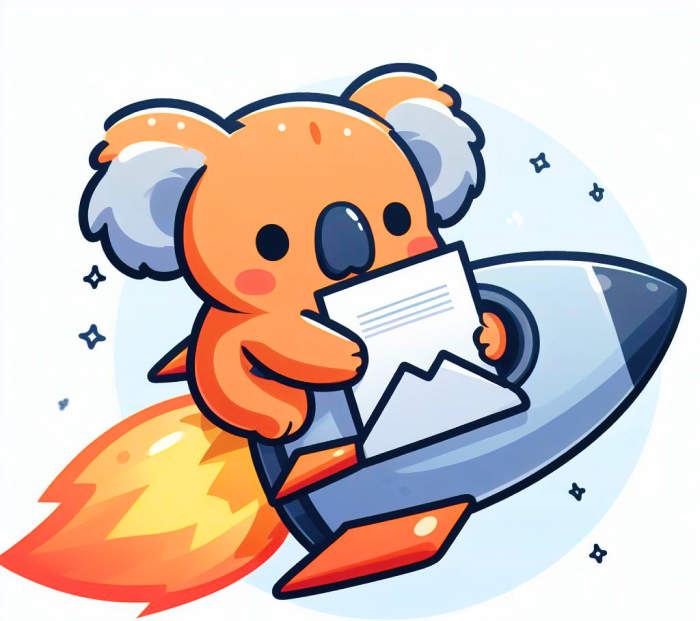
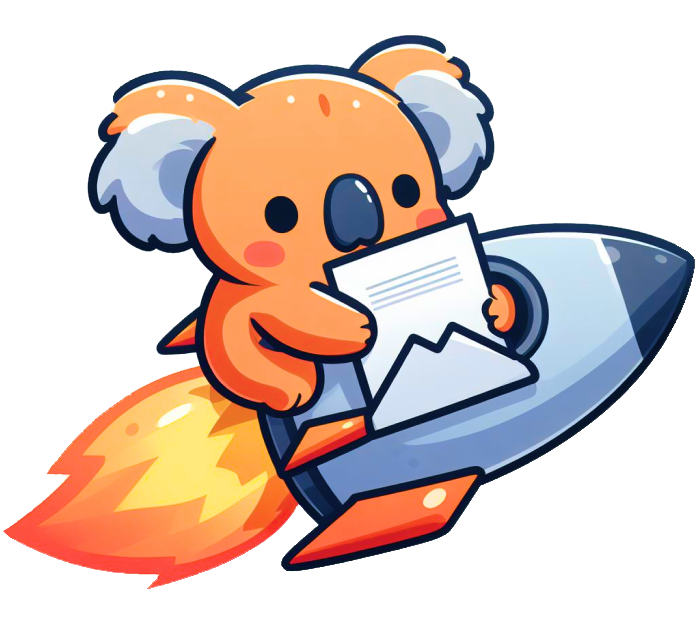
Add autofilling progress animation

diff --git a/packages/ed-resource/src/webapp/components/organisms/UploadResource/UploadResource.tsx b/packages/ed-resource/src/webapp/components/organisms/UploadResource/UploadResource.tsx
@@ -16,6 +16,7 @@ import type { default as React, FC } from 'react'
 import { useCallback, useEffect, useRef, useState } from 'react'
 import { ReactComponent as UploadFileIcon } from '../../../assets/icons/upload-file.svg'
 import { ReactComponent as UploadImageIcon } from '../../../assets/icons/upload-image.svg'
+import autofillingImg from '../../../assets/img/autofilling.png'
 import uploadingFileImg from '../../../assets/img/uploading-file.png'
 import './UploadResource.scss'
 
@@ -316,11 +317,42 @@ export const UploadResource: FC<UploadResourceProps> = ({
     }
   }, [uploadProgress])
 
+  useEffect(() => {
+    let interval: NodeJS.Timeout
+
+    if (autofillProgress !== undefined) {
+      const deltaTime = Date.now() - (lastUpdateTimeRef.current || Date.now())
+      const progressDelta = autofillProgress - (uploadPartialRef.current || 0)
+
+      const updateRate = progressDelta / deltaTime // percentage per millisecond
+      interval = setInterval(() => {
+        if (Math.abs((uploadPartialRef.current || 0) - autofillProgress) > 0.1) {
+          setUploadPartial(prev => (prev !== undefined ? prev + updateRate * 10 : 0))
+        } else {
+          clearInterval(interval)
+          setUploadPartial(autofillProgress)
+        }
+      }, 10)
+      lastUpdateTimeRef.current = Date.now()
+    } else {
+      setUploadPartial(undefined)
+    }
+
+    return () => {
+      if (interval) {
+        clearInterval(interval)
+      }
+    }
+  }, [autofillProgress])
+
+  const isUploading = subStep === 'Uploading'
+  const isAutofilling = subStep === 'Autofilling'
+
   const uploadedNameBackground =
     contentIsFile && uploadPartial
-      ? `linear-gradient(to right, #1a6aff33 ${uploadPartial}% , #ffffff00 ${
-          uploadPartial + 3
-        }%, #ffffff00 )`
+      ? `linear-gradient(to right, ${
+          isUploading ? '#1a6aff33' : '#00bd7e33'
+        } ${uploadPartial}% , #ffffff00 ${uploadPartial + 3}%, #ffffff00 )`
       : 'none'
 
   const fileUploader = (
@@ -359,11 +391,19 @@ export const UploadResource: FC<UploadResourceProps> = ({
       <img
         className="uploading-img"
         src={uploadingFileImg}
-        alt="Uploading animation,koala on a rocket wit some documents flying"
+        alt="Uploading animation,koala on a rocket with a document flying"
       />
     </div>
   )
-  const autofillingAnimation = <div className="autofilling-animation">Autofilling...</div>
+  const autofillingAnimation = (
+    <div className="autofilling-animation">
+      <img
+        className="autofilling-img"
+        src={autofillingImg}
+        alt="Autofilling animation, koala wearing an astronaut helmet reading a document"
+      />
+    </div>
+  )
 
   const imageUploader = (
     <div
@@ -443,8 +483,12 @@ export const UploadResource: FC<UploadResourceProps> = ({
       {subStep === 'Uploading' && uploader('uploading')}
       {subStep === 'Autofilling' && uploader('autofilling')}
       {subStep === 'AddImage' && !displayOnly && (embed ?? (!imageAvailable && uploader('image')))}
-      {contentAvailable && displayOnly && (embed ?? (!imageAvailable && simpleImageContainer))}
-      {contentAvailable && (embed ? undefined : imageAvailable && imageContainer)}
+      {!isUploading &&
+        !isAutofilling &&
+        contentAvailable &&
+        displayOnly &&
+        (embed ?? (!imageAvailable && simpleImageContainer))}
+      {!isUploading && !isAutofilling && (embed ? undefined : imageAvailable && imageContainer)}
     </>
   )
 

diff --git a/packages/storybook/src/components/pages/Resource/ResourceProps.stories.tsx b/packages/storybook/src/components/pages/Resource/ResourceProps.stories.tsx
@@ -244,14 +244,14 @@ export const useResourceStoryProps = (
     }, 1000)
   }
 
-  const hasStartedRef = useRef<boolean>(false)
+  const hasStartedUploadRef = useRef<boolean>(false)
 
   useEffect(() => {
-    const intervalTime = 5000 / 100
+    const intervalTime = 3000 / 100
     const timeouts: NodeJS.Timeout[] = []
 
-    if (uploadProgress === 0 && !hasStartedRef.current) {
-      hasStartedRef.current = true // Mark that we've started the sequence
+    if (uploadProgress === 0 && !hasStartedUploadRef.current) {
+      hasStartedUploadRef.current = true // Mark that we've started the sequence
 
       for (let i = 1; i <= 100; i++) {
         timeouts.push(
@@ -265,7 +265,8 @@ export const useResourceStoryProps = (
         setTimeout(() => {
           setContentUrl('https://example.com/some_url.pdf')
           setUploadProgress(undefined)
-          hasStartedRef.current = false // Reset for potential future sequences
+          setAutofillProgress(0)
+          hasStartedUploadRef.current = false // Reset for potential future sequences
         }, intervalTime * 101),
       )
     }
@@ -277,6 +278,40 @@ export const useResourceStoryProps = (
       }
     }
   }, [uploadProgress])
+
+  const hasStartedAutofillRef = useRef<boolean>(false)
+
+  useEffect(() => {
+    const intervalTime = 20000 / 100
+    const timeouts: NodeJS.Timeout[] = []
+
+    if (autofillProgress === 0 && !hasStartedAutofillRef.current) {
+      hasStartedAutofillRef.current = true // Mark that we've started the sequence
+
+      for (let i = 1; i <= 100; i++) {
+        timeouts.push(
+          setTimeout(() => {
+            setAutofillProgress(prev => (typeof prev === 'number' ? prev + 1 : prev))
+          }, intervalTime * i),
+        )
+      }
+
+      timeouts.push(
+        setTimeout(() => {
+          setContentUrl('https://example.com/some_url.pdf')
+          setAutofillProgress(undefined)
+          hasStartedAutofillRef.current = false // Reset for potential future sequences
+        }, intervalTime * 101),
+      )
+    }
+
+    return () => {
+      if (autofillProgress === undefined) {
+        // Only clear timeouts when autofillProgress becomes undefined
+        timeouts.forEach(t => clearTimeout(t))
+      }
+    }
+  }, [autofillProgress])
 
   const setContent = (e: File | string | undefined | null) => {
     if (e === undefined || e === null) {

diff --git a/packages/ed-resource/src/webapp/components/organisms/UploadResource/UploadResource.scss b/packages/ed-resource/src/webapp/components/organisms/UploadResource/UploadResource.scss
@@ -99,12 +99,32 @@
             transform: rotate(1deg) translate(0, -8px);
           }
         }
-        // height: 200px;
+
         > .uploading-img {
           max-height: 130px;
           display: inline-block; /* necessary to apply transform */
           animation: rotateAnimation 1s infinite;
           animation-timing-function: cubic-bezier(0.45, 0.25, 0.6, 0.95);
+        }
+      }
+
+      > .autofilling-animation {
+        padding: 40px 60px 0 0;
+        animation: rotateSelf 8s infinite linear;
+
+        @keyframes rotateSelf {
+          0% {
+            transform: rotate(0deg);
+          }
+          100% {
+            transform: rotate(360deg);
+          }
+        }
+
+        > .autofilling-img {
+          max-height: 115px;
+          display: inline-block; /* necessary to apply transform */
+          animation: rotateSelf 10s infinite linear;
         }
       }
 
